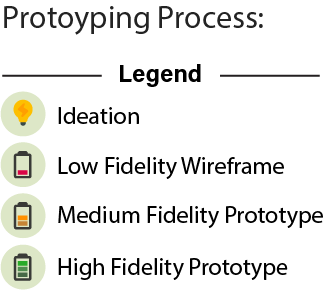
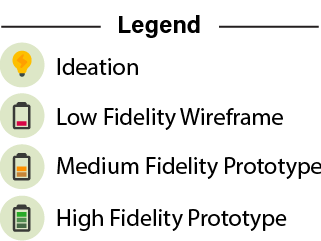
updates

Changed region(s): [[0.0, 0.1743, 1.0, 0.9876], [0.0, 0.0, 0.9969, 0.1743], [0.6854, 0.2324, 0.9969, 0.2905]]

diff --git a/index.html b/index.html
@@ -10,7 +10,7 @@
     <!-- Bootstrap CSS -->
     <link rel="stylesheet" href="node_modules/bootstrap/dist/css/bootstrap.min.css">
     <link rel="stylesheet" href="css/styles.css">
-    <title>Ristorante Con Fusion</title>
+    <title>Valerene's UID Journal</title>
 </head>
 
 <body>
@@ -18,26 +18,28 @@
     <header class="jumbotron">
         <div class="container">
             <div class="row row-header">
-                <div class="col-12 col-sm-3" onClick="nav('overview');">
-					<h4>Valerene's UID Journal</h3>
+                <div class="col-12 col-sm-3 align-self-center" onClick="nav('overview');">
+					<h4>Valerene's UID Journal</h4>
 					<p>SUTD Term 7 | 50.006 </p>
 				</div>
 				<div class="col-12 col-sm-3 align-self-center" onClick="nav('users');">
-					<h4>Classification of Users</h4>
+					<h6>Classification of Users</h6>
 				</div>
 				<div class="col-12 col-sm-3 align-self-center" onClick="nav('personas');">
-					<h4>User Personas</h4>
+					<h6>User Personas</h6>
 				</div>
 				<div class="col-12 col-sm-3 align-self-center" onClick="nav('flowchart');">
-					<h4>User Flow Diagram</h4>
+					<h6>User Flow Diagram</h6>
 				</div>
             </div>
         </div>
     </header>
+    <br/>
 
     <div class="container">
         <div class="row legend">
             <div class="col-12 col-sm-2">
+                <h6>Navigation</h6>
                 <img src="./maps/legend.png" class="legend">
                 <img src="./maps/features.png" usemap="#features" class="legend">
                 <text onClick="features('f1')">User Onboarding</text><br/>
@@ -169,6 +171,7 @@
             </div>
         </div>
     </div>
+    <br/>
 
     <footer class="footer">
         <div class="container">

diff --git a/css/styles.css b/css/styles.css
@@ -27,7 +27,7 @@ text{
 
 .legend{
     max-width:100%;
-    padding: 20px 0px 20px 0px;
+    padding: 10px 0px 10px 0px;
 }
 
 .image {
